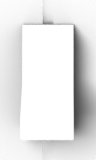
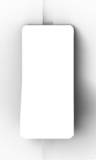
fix(panel): round the drawbar cap edges like the real part

diff --git a/assets/blender/parts_cap.py b/assets/blender/parts_cap.py
@@ -19,21 +19,19 @@ from proof_geom import box, loft
 # stray 4-vertex quads near the tip are not part of the cap and are dropped.
 CAP_W = 0.80
 CAP_PROFILE = (
-    (0.00, 0.02),
+    (0.00, 0.10),
     (0.20, 0.36),
     (0.79, 0.36),
-    (0.84, 0.42),
-    (0.99, 1.03),
+    (1.00, 1.03),
     (1.24, 1.04),
-    (1.30, 0.95),
-    (1.37, 0.40),
-    (1.40, 0.36),
+    (1.38, 0.38),
     (1.587, 0.36),
 )
 CAP_LEN_SCALE = 1.03  # EMPIRICAL: silhouette fit against the reference (model 1.587 u long)
 CAP_FRONT = -0.878  # nose tip, 0.06 u toward the back: the leaned render then fits the reference
 CAP_TAPER = 0.03  # model: top of the block 0.78 against a 0.80 base, walls upright
-CAP_BEVEL = 0.05  # model: corner radius about 0.05 u
+CAP_BEVEL = 0.07  # EMPIRICAL: owner photos, block edges and nose join are soft (about 0.07 u)
+CAP_SEGMENTS = 10  # smooth round-over
 CAP_FLIP = True  # model orientation, nose away from the player (silhouette IoU 0.884 vs 0.868)
 CAP_LIFT = 0.03  # cap floats above the plate so the slot shows under it
 FOOT_WALL = 0.03  # ASSUMED: upright strip at the foot of every wall
@@ -67,7 +65,9 @@ def fader_cap(m, key):
     rings = [_section(sign * (CAP_FRONT + d * CAP_LEN_SCALE), z, top) for d, z in CAP_PROFILE]
     if CAP_FLIP:
         rings.reverse()
-    return [loft("cap_body", rings, m[key], smooth=True, bevel=CAP_BEVEL, segments=6)]
+    cap = loft("cap_body", rings, m[key], smooth=True, bevel=CAP_BEVEL, segments=CAP_SEGMENTS)
+    cap.modifiers["bevel"].use_clamp_overlap = False  # short foot wall must not cap it
+    return [cap]
 
 
 def layer_cap(m, key):

diff --git a/docs/research/panel-blender-proof.md b/docs/research/panel-blender-proof.md
@@ -186,3 +186,6 @@ rear ledge. Plan length stretched by 1.03 and moved 0.06 u back to fit the refer
 
 Implications: photo-estimated shapes were off by up to 40 % in height; measure from the model.
 Follow-ups: rounder block edges (model radius about 0.05 u), per-cap lean check on the white cap.
+
+Round-over (same review): bevel 0.07 u, 10 segments, overlap clamp off (the 0.03 u foot wall otherwise
+clamped it to nothing), tip end face 0.10 u tall. Silhouette IoU after rounding: black 0.950, white 0.914.
